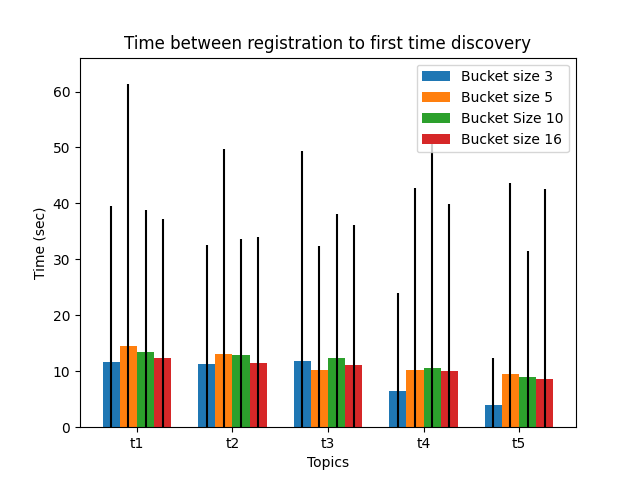
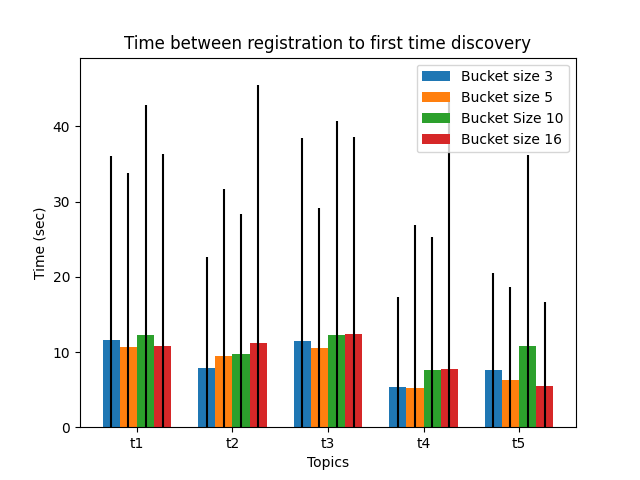
new figures

diff --git a/service-discovery/python/analyze_sergi.py b/service-discovery/python/analyze_sergi.py
@@ -1437,8 +1437,8 @@ print('Plots will be saved in ', OUTDIR);
 #labels = ['AdLifeTime 5 min','AdLifeTime 15 min','AdLifeTime 30 min','AdLifeTime 60 min']
 #labels = ['500 nodes','1000 nodes','5000 nodes','10000 nodes']
 #labels = ['0.5 AdLifeTime','1 AdLifeTime','1.5 AdLifeTime','2 AdLifeTime']
-#labels = ['Bucket size 3','Bucket size 5','Bucket Size 10','Bucket size 16']
-labels = ['5 Buckets','10 Buckets','17 Buckets','256 Buckets']
+labels = ['Bucket size 3','Bucket size 5','Bucket Size 10','Bucket size 16']
+#labels = ['5 Buckets','10 Buckets','17 Buckets','256 Buckets']
 #labels = ['No refresh','Refresh']
 #labels = ['5%','10%','20%']
 #labels = ['Filter','No filter']
